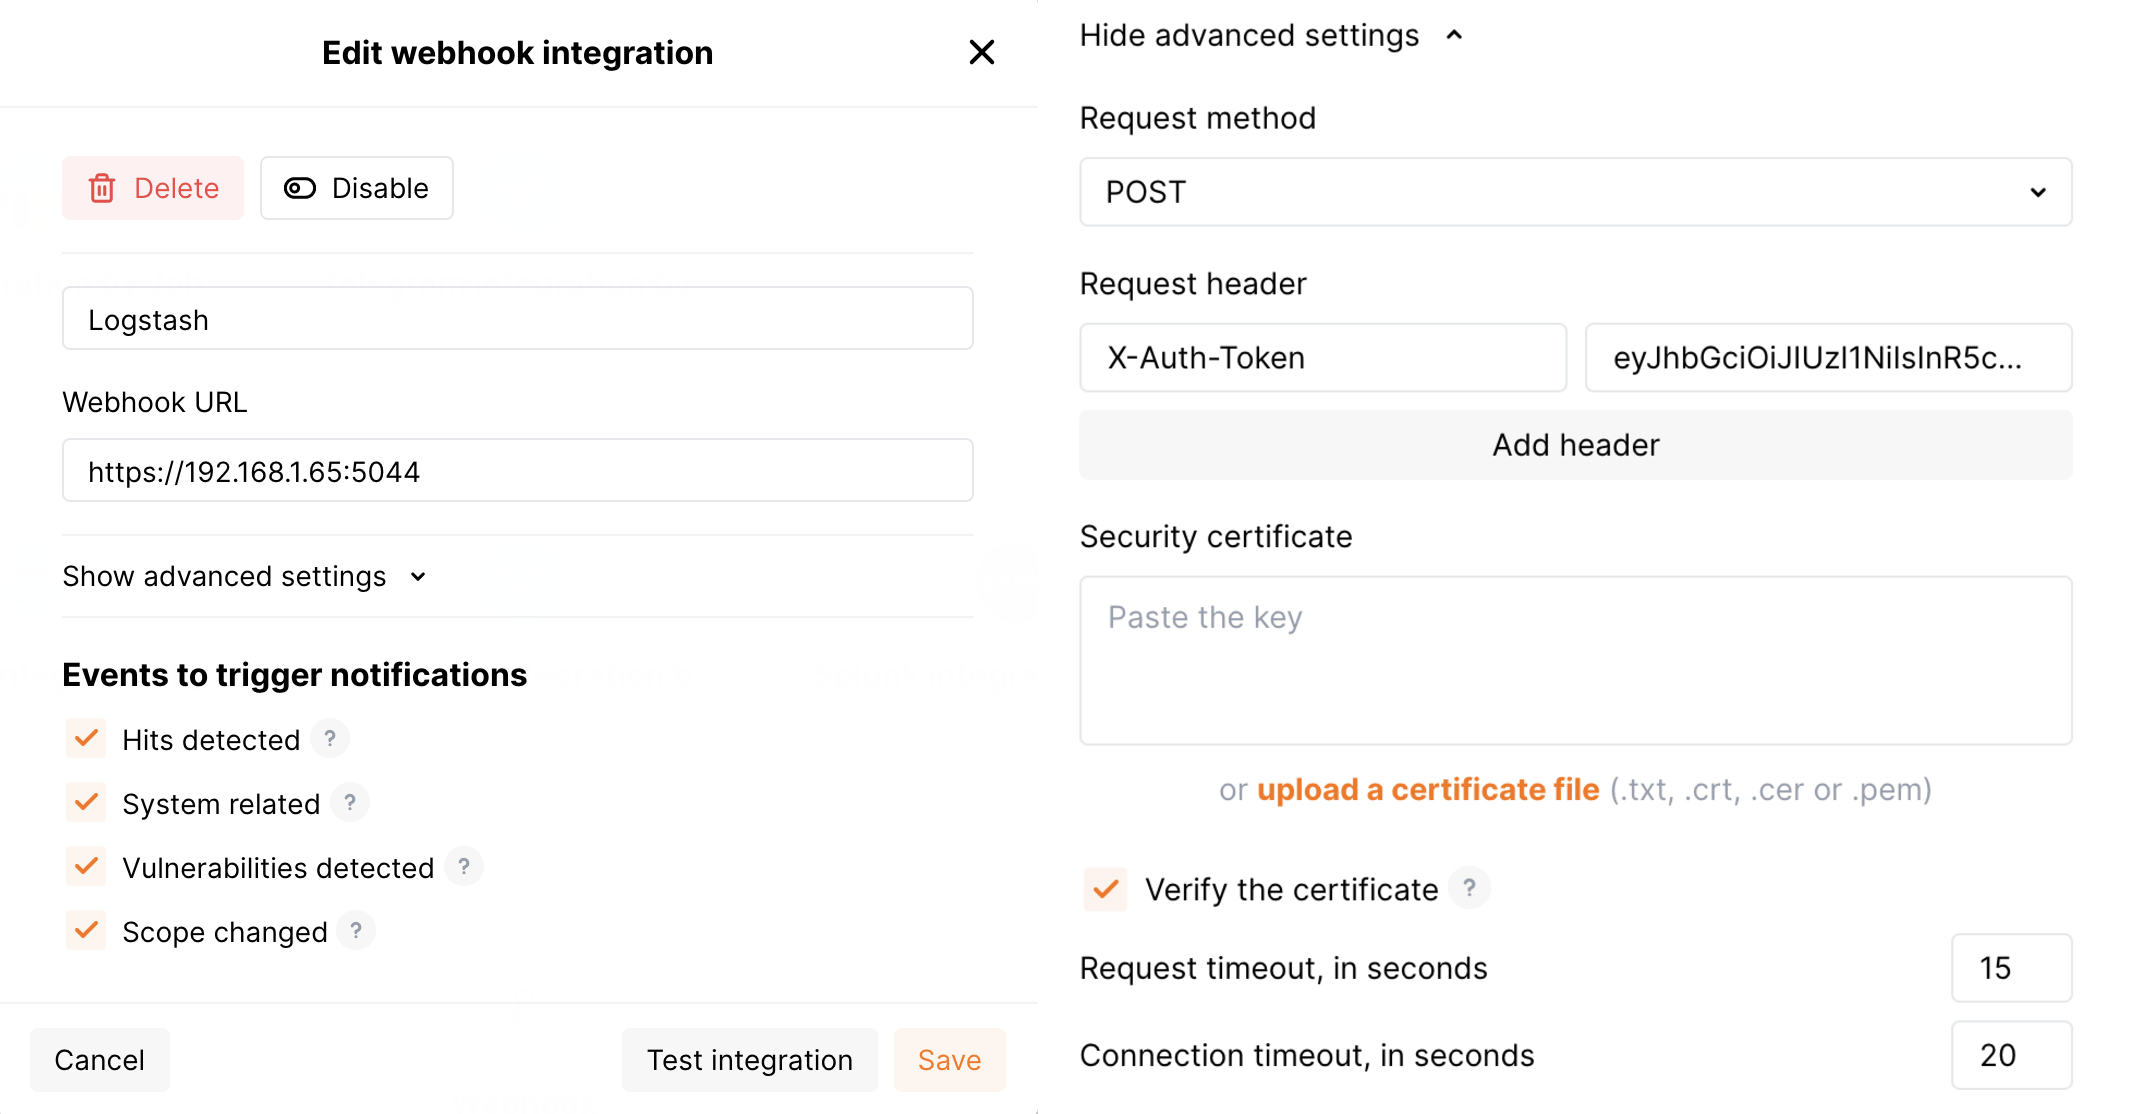
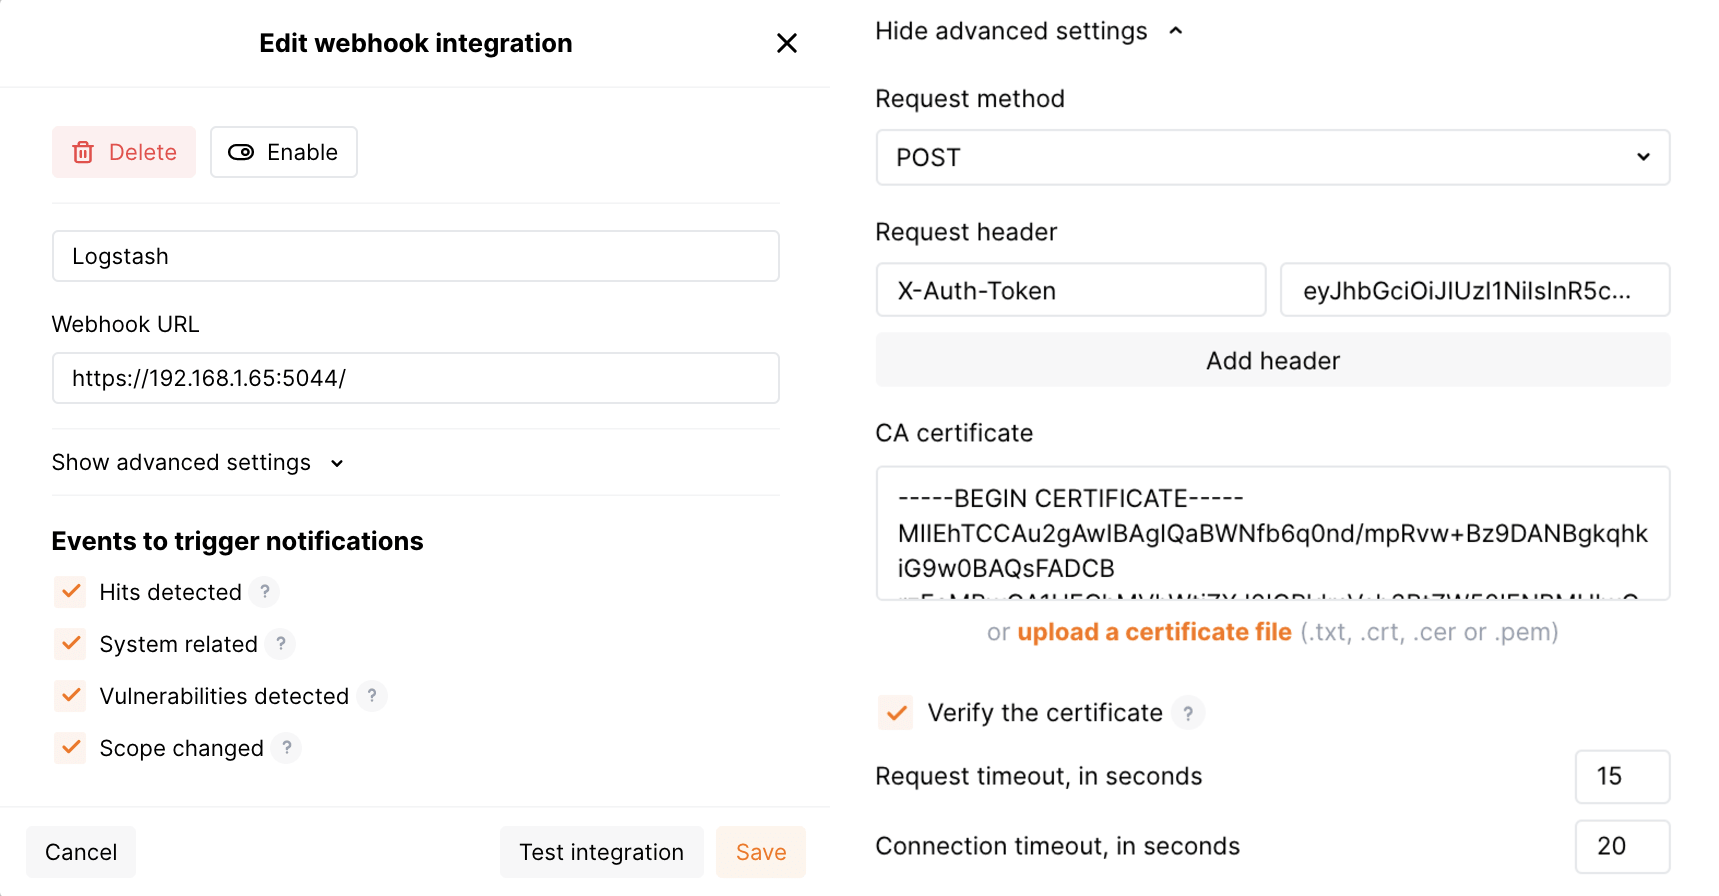
DOCS-1230 mention that Logstash certificate should be specified in webhook int

diff --git a/include/integrations/webhook-examples/create-logstash-webhook.md b/include/integrations/webhook-examples/create-logstash-webhook.md
@@ -1,4 +1,6 @@
 * Webhooks are sent to `https://logstash.example.domain.com`
 * Webhooks are sent via POST requests
 * Additional authentication parameter `X-Auth-Token` is passed in the request
+* Certificate for HTTPS connection to `https://logstash.example.domain.com` is passed in the request (the certificate is located in the file `/etc/server.crt` on the Logstash instance)
+* The certificate is additionally verified on the Wallarm side
 * Webhooks sent to Webhook URLs are all available events: hits, system events, vulnerabilities, scope changes

diff --git a/include/integrations/webhook-examples/create-logstash-webhook-ip.md b/include/integrations/webhook-examples/create-logstash-webhook-ip.md
@@ -1,4 +1,6 @@
 * Webhooks are sent to `https://192.168.1.65:5044`
 * Webhooks are sent via POST requests
 * Additional authentication parameter `X-Auth-Token` is passed in the request
+* Certificate for HTTPS connection to `https://192.168.1.65:5044` is passed in the request (the certificate is located in the file `/etc/server.crt` on the Logstash instance)
+* The certificate is additionally verified on the Wallarm side
 * Webhooks sent to Webhook URLs are all available events: hits, system events, vulnerabilities, scope changes
